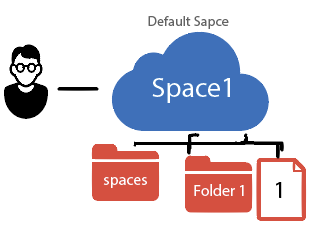
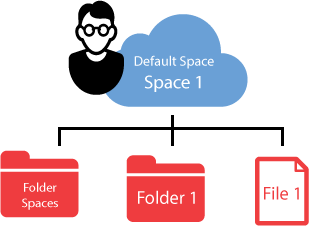
replaced draft space pictures with good ones

diff --git a/doc/space_management.md b/doc/space_management.md
@@ -2,19 +2,20 @@
 This document discusses in more detail what the space is, and how it can be managed through the Onedata web interface.
 
 ## Space concept overview
+
+<img style="float:right;margin: 00px 30px;max-width:150px" src="img/spaces/1_space_with_files.png">
+
 You can think of a space as a virtual directory, which contents are stored in distributed storage resources provisioned by storage providers. Each space must have at least one provider supporting it with a non-zero storage space (quota). The effective quota available to a single space is the sum of storage quotas dedicated to this space by all storage providers supporting it.
 
 *It is important to note that even if some file in the space is larger than any single provider's quota but smaller that total storage quota left in the space, Onedata can still store this file by splitting it in blocks and storing parts at different storage providers.*
 
-
-<img style="float:right;margin: 00px 30px" src="img/spaces/1_space_with_files.png">
-
 You can create as many spaces as necessary, and each of them can have different providers supporting it.
 
 ### Default Space
-After creating account at [onedata.org](onedata.org), a first space is automatically created which is called the *default space*.
 
-<img style="float:right;margin: 0px 0px" src="img/spaces/default_space_with_files_and_user.png">
+<img style="float:right;margin: 0px 15px;max-width:295px" src="img/spaces/default_space_with_files_and_user.png">
+
+After creating account at [onedata.org](onedata.org), a first space is automatically created which is called the *default space*.
 
 The contents of the default space are presented as a root directory for your spaces. Default space contains a single directory called `spaces`, which allows you to access files in your other spaces. This is especially convenient for command line access, where you can access all your spaces from a single directory.
 
